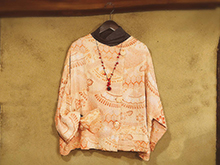
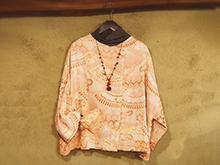
写真差し替え

diff --git a/shopping/yomogi/index.html b/shopping/yomogi/index.html
@@ -51,14 +51,14 @@
         </div>
         <figure class="imgcenter">
           <ul>
-            <li><img src="images/yomogi02.jpg?date=20210321" alt="YOMOGI"></li>
-            <li><img src="images/yomogi03.jpg?date=20210321" alt="YOMOGI"></li>
-            <li><img src="images/yomogi04.jpg?date=20210321" alt="YOMOGI"></li>
-            <li><img src="images/yomogi05.jpg?date=20210321" alt="YOMOGI"></li>
-            <li><img src="images/yomogi06.jpg?date=20210321" alt="YOMOGI"></li>
-            <li><img src="images/yomogi07.jpg?date=20210321" alt="YOMOGI"></li>
-            <li><img src="images/yomogi08.jpg?date=20210321" alt="YOMOGI"></li>
-            <li><img src="images/yomogi09.jpg?date=20210321" alt="YOMOGI"></li>
+            <li><img src="images/yomogi02.jpg?date=20210320" alt="YOMOGI"></li>
+            <li><img src="images/yomogi03.jpg?date=20210320" alt="YOMOGI"></li>
+            <li><img src="images/yomogi04.jpg?date=20210320" alt="YOMOGI"></li>
+            <li><img src="images/yomogi05.jpg?date=20210320" alt="YOMOGI"></li>
+            <li><img src="images/yomogi06.jpg?date=20210320" alt="YOMOGI"></li>
+            <li><img src="images/yomogi07.jpg?date=20210320" alt="YOMOGI"></li>
+            <li><img src="images/yomogi08.jpg?date=20210320" alt="YOMOGI"></li>
+            <li><img src="images/yomogi09.jpg?date=20210320" alt="YOMOGI"></li>
           </ul>
         </figure>
       </article>
